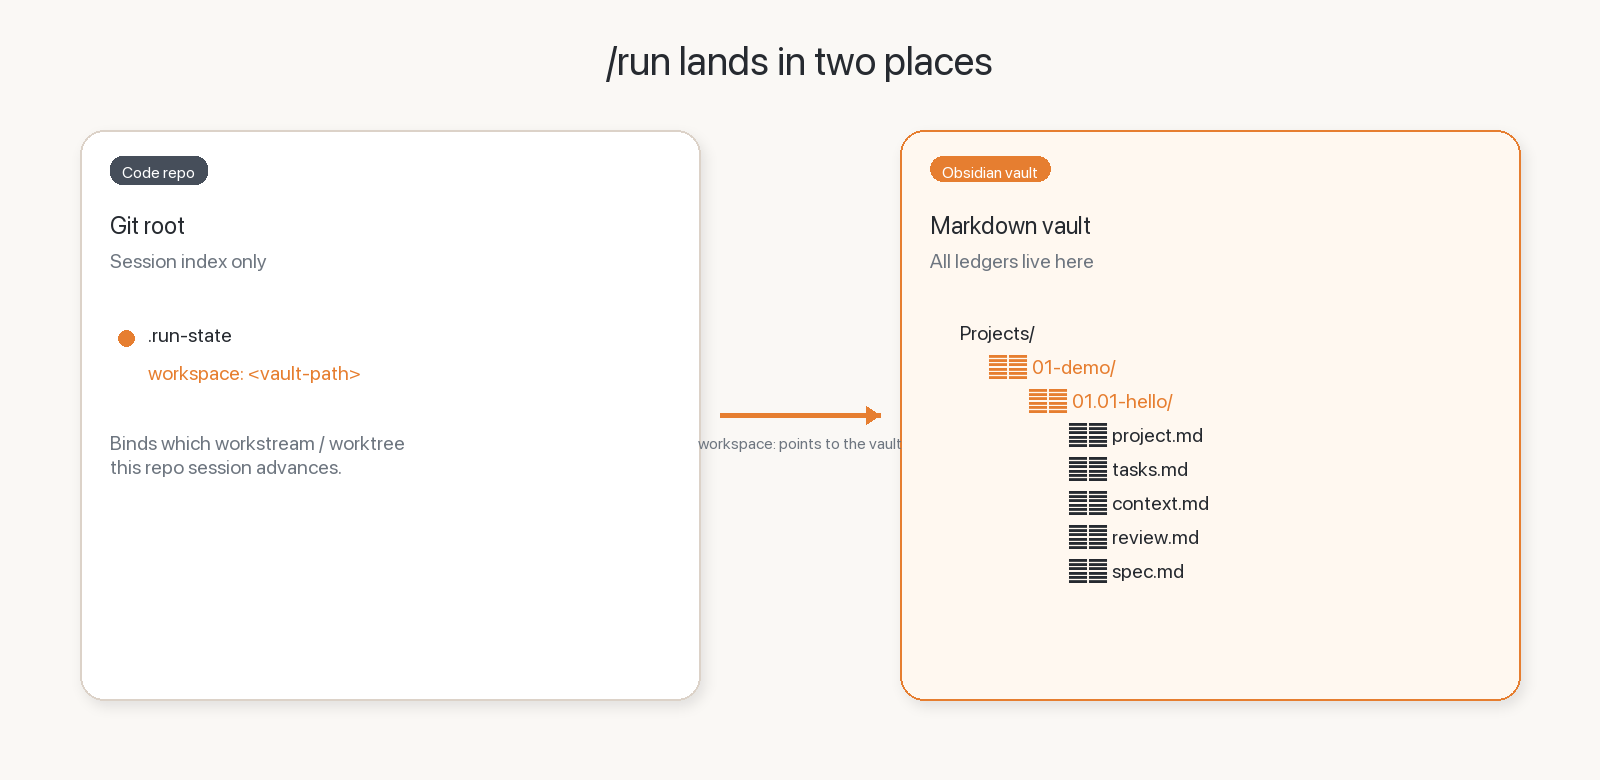
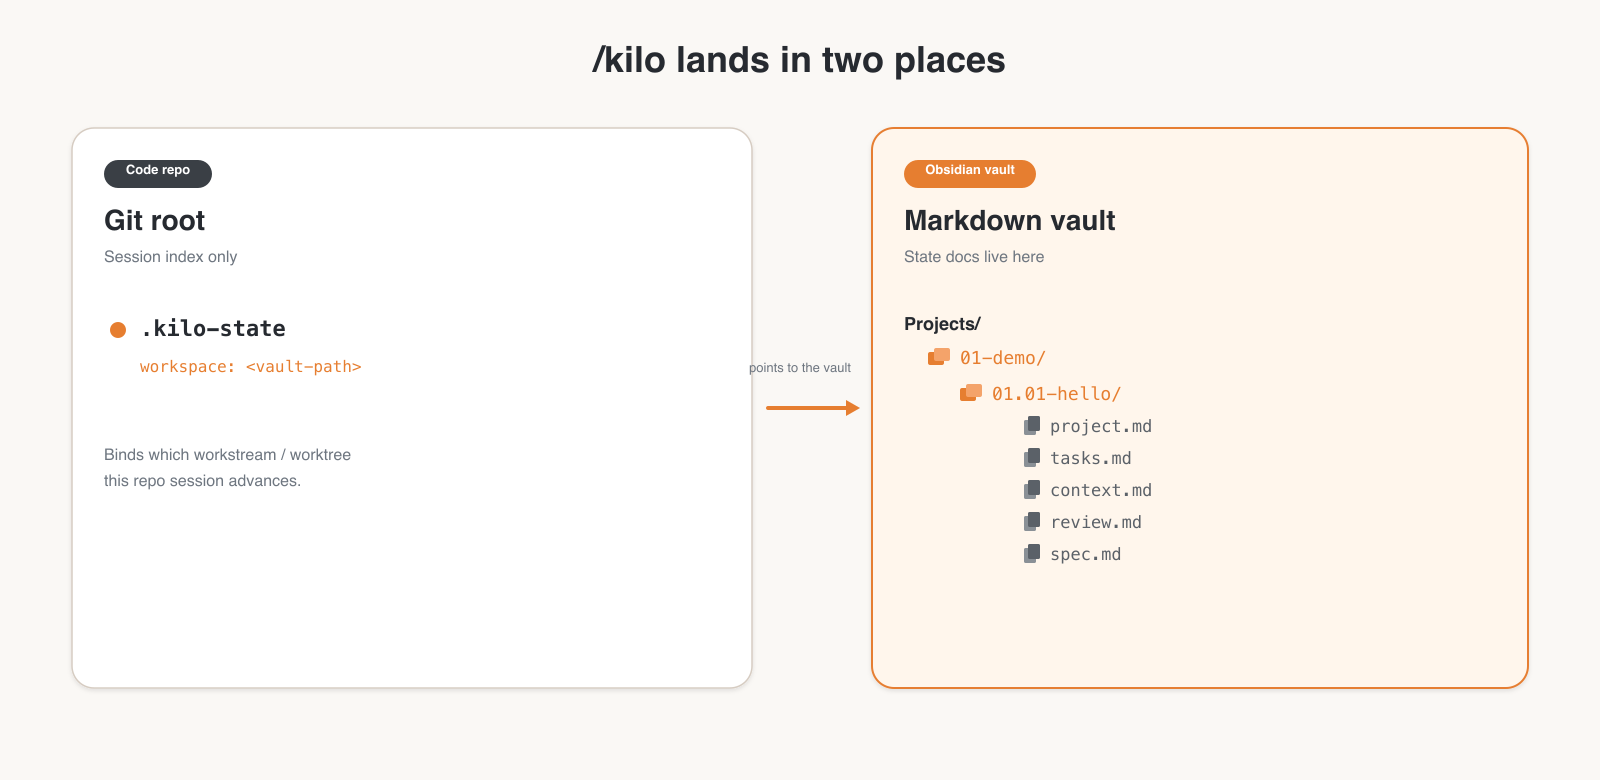
docs(kilo): replace leftover /run in two-places diagram
README second figure still showed /run and .run-state after the
rename. Redraw as SVG with /kilo and .kilo-state.

diff --git a/README_CN.md b/README_CN.md
@@ -149,7 +149,7 @@ npx skills update                           # 之后更新
 - **代码仓（git 根）**：只有 `.kilo-state`——记录绑了哪条 workstream、哪个 worktree。
 - **Obsidian 库**：全部状态文档（`project.md` / `tasks.md` / `context.md` / `review.md` 等）。`.kilo-state` 的 `workspace:` 指向这里。
 
-![Two landing places: code repo vs Obsidian vault](docs/images/kilo-readme-two-places.png)
+![Two landing places: code repo vs Obsidian vault](docs/images/kilo-readme-two-places.svg)
 
 路径怎么找：先看 `.kilo-state`，再看旧的 `.run-state`，再看 `KILO_WORKSPACE` / 旧的 `RUN_WORKSPACE`；都没有就需要显式配置。不会悄悄落到 `~/run-workspace`。
 

diff --git a/README.md b/README.md
@@ -148,7 +148,7 @@ State lands in two places — don't mix them:
 - **Code repo (git root):** only `.kilo-state` — which workstream / worktree this session is bound to.
 - **Obsidian vault:** all state docs (`project.md` / `tasks.md` / `context.md` / `review.md`, …). `.kilo-state` `workspace:` points here.
 
-![Two landing places: code repo vs Obsidian vault](docs/images/kilo-readme-two-places.png)
+![Two landing places: code repo vs Obsidian vault](docs/images/kilo-readme-two-places.svg)
 
 Resolution order: `.kilo-state` → legacy `.run-state` → `KILO_WORKSPACE` → legacy `RUN_WORKSPACE` → you must set it up. No silent fallback to `~/run-workspace`.
 
